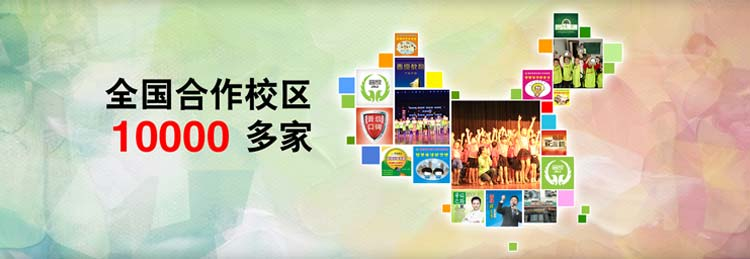
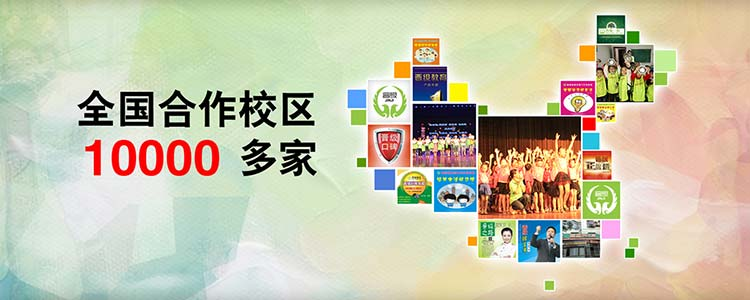
完成首页

diff --git a/index.html b/index.html
@@ -15,7 +15,6 @@
 	<link rel="stylesheet" href="modules/css/index.scss">
 </head>
 <body>
-    <link rel="import" href="modules/widget/topBar/topBar.html?__inline">
 	<div class="g-page">
         <!-- 头部 -->
         <div class="g-header">
@@ -130,12 +129,42 @@
             </div>
             <div class="g-news__list">
                 <ul class="list">
-                    <li class="list__item"><a href="#">【凤凰江西网】9月晋级教育重磅新闻，最新武功...</a></li>
-                    <li class="list__item"><a href="#">【凤凰江西网】9月晋级教育重磅新闻，最新武功...</a></li>
-                    <li class="list__item"><a href="#">【凤凰江西网】9月晋级教育重磅新闻，最新武功...</a></li>
-                    <li class="list__item"><a href="#">【凤凰江西网】9月晋级教育重磅新闻，最新武功...</a></li>
-                    <li class="list__item"><a href="#">【凤凰江西网】9月晋级教育重磅新闻，最新武功...</a></li>
-                    <li class="list__item"><a href="#">【凤凰江西网】9月晋级教育重磅新闻，最新武功...</a></li>
+                    <li class="list__item">
+                        <a href="#">
+                            <h1>【凤凰江西网】9月晋级教育重磅新闻，最新武功...</h1>
+                            <span>9月晋级教育重磅新闻，育重磅新闻育重磅新闻最新武功</span>
+                        </a>
+                    </li>
+                    <li class="list__item">
+                        <a href="#">
+                            <h1>【凤凰江西网】9月晋级教育重磅新闻，最新武功...</h1>
+                            <span>9月晋级教育重磅新闻，育重磅新闻育重磅新闻最新武功</span>
+                        </a>
+                    </li>
+                    <li class="list__item">
+                        <a href="#">
+                            <h1>【凤凰江西网】9月晋级教育重磅新闻，最新武功...</h1>
+                            <span>9月晋级教育重磅新闻，育重磅新闻育重磅新闻最新武功</span>
+                        </a>
+                    </li>
+                    <li class="list__item">
+                        <a href="#">
+                            <h1>【凤凰江西网】9月晋级教育重磅新闻，最新武功...</h1>
+                            <span>9月晋级教育重磅新闻，育重磅新闻育重磅新闻最新武功</span>
+                        </a>
+                    </li>
+                    <li class="list__item">
+                        <a href="#">
+                            <h1>【凤凰江西网】9月晋级教育重磅新闻，最新武功...</h1>
+                            <span>9月晋级教育重磅新闻，育重磅新闻育重磅新闻最新武功9月晋级教育重磅新闻，育重磅新闻育重磅新闻最新武功</span>
+                        </a>
+                    </li>
+                    <li class="list__item">
+                        <a href="#">
+                            <h1>【凤凰江西网】9月晋级教育重磅新闻，最新武功...</h1>
+                            <span>9月晋级教育重磅新闻，育重磅新闻育重磅新闻最新武功</span>
+                        </a>
+                    </li>
                 </ul>
             </div>
         </div>
@@ -171,6 +200,7 @@
 
 	<script src="lib/mod.js"></script>
 	<script>
+        require('lib-flexible');
 		require.async('modules/app/index.js');
 	</script>
 </body>

diff --git a/modules/css/index.scss b/modules/css/index.scss
@@ -47,7 +47,7 @@
 /* banner */
 .g-banner{
 	width: 750px;
-	height: 259px;
+	height: 300px;
 	overflow: hidden;
 	.g-banner__swiper{
 		position: relative;
@@ -107,12 +107,28 @@
 			.swiper-slide {
 				a {
 					@include text-overflow
+					position: relative;
 					display: block;
 					height:40px; 
 					line-height: 40px; 
+					text-indent: 0.5rem;
 					font-size: 28px; 
 					color: #404040;
 					text-decoration: none;
+					&:before {
+						position: absolute;
+						display: block;
+						top:50%;
+						left:10px; /*px*/
+						width:16px; /*px*/
+						height:18px; /*px*/
+						transform:translatey(-50%);
+						content:'';
+						background-image: url('./img/rollBox-icon.png?__inline');
+						background-size: contain;
+						background-repeat: no-repeat;
+						background-position: center;
+					}
 				}
 
 			}
@@ -199,16 +215,16 @@
 					font-size: 28px;
 				}
 				.item__icon--1 {
-					background-image: url('./img/nav-1.png')
+					background-image: url('./img/nav-1.png?__inline')
 				}
 				.item__icon--2 {
-					background-image: url('./img/nav-2.png')
+					background-image: url('./img/nav-2.png?__inline')
 				}
 				.item__icon--3 {
-					background-image: url('./img/nav-3.png')
+					background-image: url('./img/nav-3.png?__inline')
 				}
 				.item__icon--4 {
-					background-image: url('./img/nav-4.png')
+					background-image: url('./img/nav-4.png?__inline')
 				}
 
 			}
@@ -243,31 +259,48 @@
 
 	.g-news__list {
 		padding: 0px 36px;
-		a {
-			text-decoration: none;
-			color: #404040;
-		}
 		.list {
 			.list__item {
-				@include text-overflow
 				position: relative;
-				height:50px; /*px*/
-				font-size: 28px; /*px*/
-				text-indent: 28px; 
-				line-height: 50px; /*px*/
+				height: 92px; /*px*/
+				margin-left: 40px; /*px*/
+				&:after{
+					position: absolute;
+  					left: -50%;
+					display: block;
+					content:'';
+					width: 200%;
+					height:1px;
+					border-bottom:1px solid #e3e3e3; /*no*/
+					transform:scale(0.5);
+				}
 				&:before {
 					position: absolute;
 					display: block;
-					top:50%;
-					left:10px; /*px*/
+					top: 10px; /*px*/
+					left: -34px; /*px*/
 					width:20px; /*px*/
 					height:20px; /*px*/
-					transform:translatey(-50%);
 					content:'';
 					background-image: url('./img/news-list-item.png');
 					background-size: contain;
 					background-repeat: no-repeat;
-					background-position: center;
+				}
+
+				a {
+					display: block;
+					text-decoration: none;
+					color: #404040;
+					h1 {
+						@include text-overflow
+						font-size: 30px;
+						color:#404040;
+					}
+					span {
+						@include text-overflow
+						font-size: 24px;
+						color: #888;
+					}
 				}
 			}
 		}

diff --git a/modules/app/index.js b/modules/app/index.js
@@ -1,9 +1,6 @@
-
-
 /*基础JS*/
 var $ = require('jquery');
 var fastclick = require('fastclick');
-require('lib-flexible'); // 引入即可
 
 /*第三方插件*/
 // Swiper
@@ -36,5 +33,6 @@ var hot = new Swiper('.g-hot__banner', {
 
 
 var school = new Swiper('.g-school__banner', {
+	autoplay: 3000,
 	loop: true,
 })

diff --git a/modules/widget/topBar/topBar.html b/modules/widget/topBar/topBar.html
@@ -6,6 +6,10 @@
 		history.back();
 	}
 </script>
+<!-- 
+	引入方式
+    <link rel="import" href="modules/widget/topBar/topBar.html?__inline">
+-->
 <div class="w-topBar">
 	<a href="##" class="topBar__btn topBar__btn--return"></a>
 	<a href="##" class="topBar__btn topBar__btn--home"></a>
